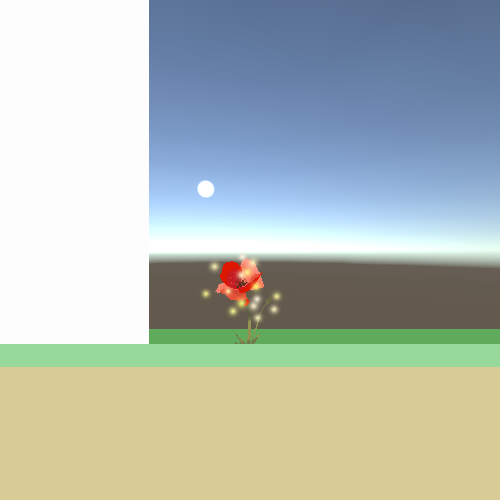
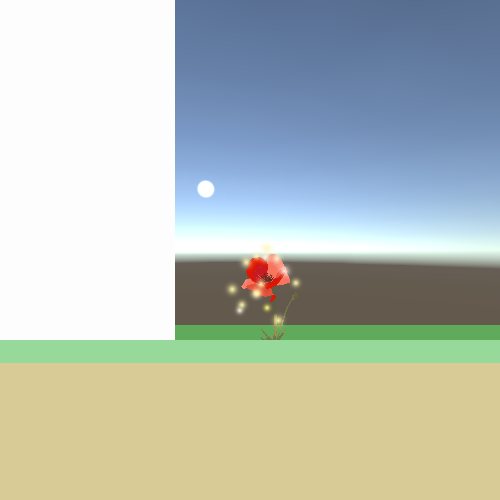
implemented PhotoWall after taking Picture | Picture can only be taken once per object

Changed region(s): [[0.0, 0.0, 1.0, 0.69], [0.0, 0.72, 1.0, 0.75]]

diff --git a/Assets/Game/Scripts/Camera/PolaroidRestrictionArea.cs b/Assets/Game/Scripts/Camera/PolaroidRestrictionArea.cs
@@ -14,6 +14,7 @@ public class PolaroidRestrictionArea : MonoBehaviour
     private int WalkDirection;
 
     public static bool isInCol;
+    public static bool walkStop;
     void Start()
     {
         minWalkPoint = walkZone.bounds.min;
@@ -23,23 +24,26 @@ public class PolaroidRestrictionArea : MonoBehaviour
     // Update is called once per frame
     void Update()
     {
-        switch (WalkDirection)
+        if (walkStop)
         {
-            case 0:
-                if (Player.position.x > maxWalkPoint.x)
+          if (Player.position.x > maxWalkPoint.x)
+          {
+            playerMovement.StopMovement = true;
+             if (Input.GetKeyDown(KeyCode.A))
                 {
-                    playerMovement.StopMovement = true;
-                    return;
+                    playerMovement.StopMovement = false;
                 }
-                break;
+          }
+          if (Player.position.x < minWalkPoint.x)
+          {
+            playerMovement.StopMovement = true;
+              if (Input.GetKeyDown(KeyCode.D))
+                {
+                    playerMovement.StopMovement = false;
+                }
+            }
+           
 
-            case 1:
-                if (Player.position.x < minWalkPoint.x)
-                {
-                    playerMovement.StopMovement = true;
-                    return;
-                }
-                break;
         }
     }
 

diff --git a/Assets/Game/Scripts/Camera/CameraHandler.cs b/Assets/Game/Scripts/Camera/CameraHandler.cs
@@ -32,6 +32,7 @@ public class CameraHandler : MonoBehaviour
         if (Input.GetKeyDown(KeyCode.F) && PolaroidRestrictionArea.isInCol == true)
         {
             playerMovement.StopMovement = true;
+            PolaroidRestrictionArea.walkStop = true;
             PolaroidCam.SetActive(true);
             PolaroidCamActive = true;
             PolaroidMenu.SetActive(true);
@@ -39,7 +40,9 @@ public class CameraHandler : MonoBehaviour
         }
         if (Input.GetKeyUp(KeyCode.F))
         {
+            
             playerMovement.StopMovement = false;
+            PolaroidRestrictionArea.walkStop = false;
             Trigger.SetActive(false);
             PolaroidCam.SetActive(false);
             PolaroidMenu.SetActive(false);
@@ -54,7 +57,7 @@ public class CameraHandler : MonoBehaviour
             Blend.SetActive(true);
             BlendAnim.SetTrigger("Start");
             //StartCoroutine(Waiter());
-            //SceneManager.LoadScene(sceneName: "PhotoWall");
+            SceneManager.LoadScene(sceneName: "PhotoWall");
         }
 
         /*IEnumerator Waiter()

diff --git a/Assets/Game/Scripts/Photos/Photo01.cs b/Assets/Game/Scripts/Photos/Photo01.cs
@@ -1,0 +1,34 @@
+using System.Collections;
+using System.Collections.Generic;
+using UnityEngine;
+using UnityEngine.SceneManagement;
+
+public class Photo01 : MonoBehaviour
+{
+
+    public GameObject PhotoCollider;
+
+    // Start is called before the first frame update
+    void Start()
+    {
+        SceneSwitch.prevScene = "Village";
+        if (Items.Photo01 == true)
+        {
+            Destroy(PhotoCollider);
+        }
+    }
+
+    // Update is called once per frame
+    void Update()
+    {
+            if (PolaroidRestrictionArea.walkStop == true)
+            {
+                if (Input.GetKeyDown(KeyCode.Space))
+                {
+                Items.Photo01 = true;
+                Destroy(PhotoCollider);
+                }
+            }
+        
+    }
+}

diff --git a/Assets/Game/Scripts/Objects/SceneSwitch.cs b/Assets/Game/Scripts/Objects/SceneSwitch.cs
@@ -19,4 +19,9 @@ public class SceneSwitch : MonoBehaviour
         prevScene = currentScene;
         SceneManager.LoadScene(sceneName);
     }
+    public void LastScene()
+    {
+        SceneManager.LoadScene(prevScene);
+        prevScene = currentScene;
+    }
 }

diff --git a/Assets/Game/Scripts/Objects/Items.cs b/Assets/Game/Scripts/Objects/Items.cs
@@ -5,7 +5,7 @@ using UnityEngine;
 public class Items : MonoBehaviour
 {
     public static bool Camera = false;
-    public static bool Papersheet = false;
+    public static bool Photo01 = false;
 
     public static void PickUpCamera()
     {
